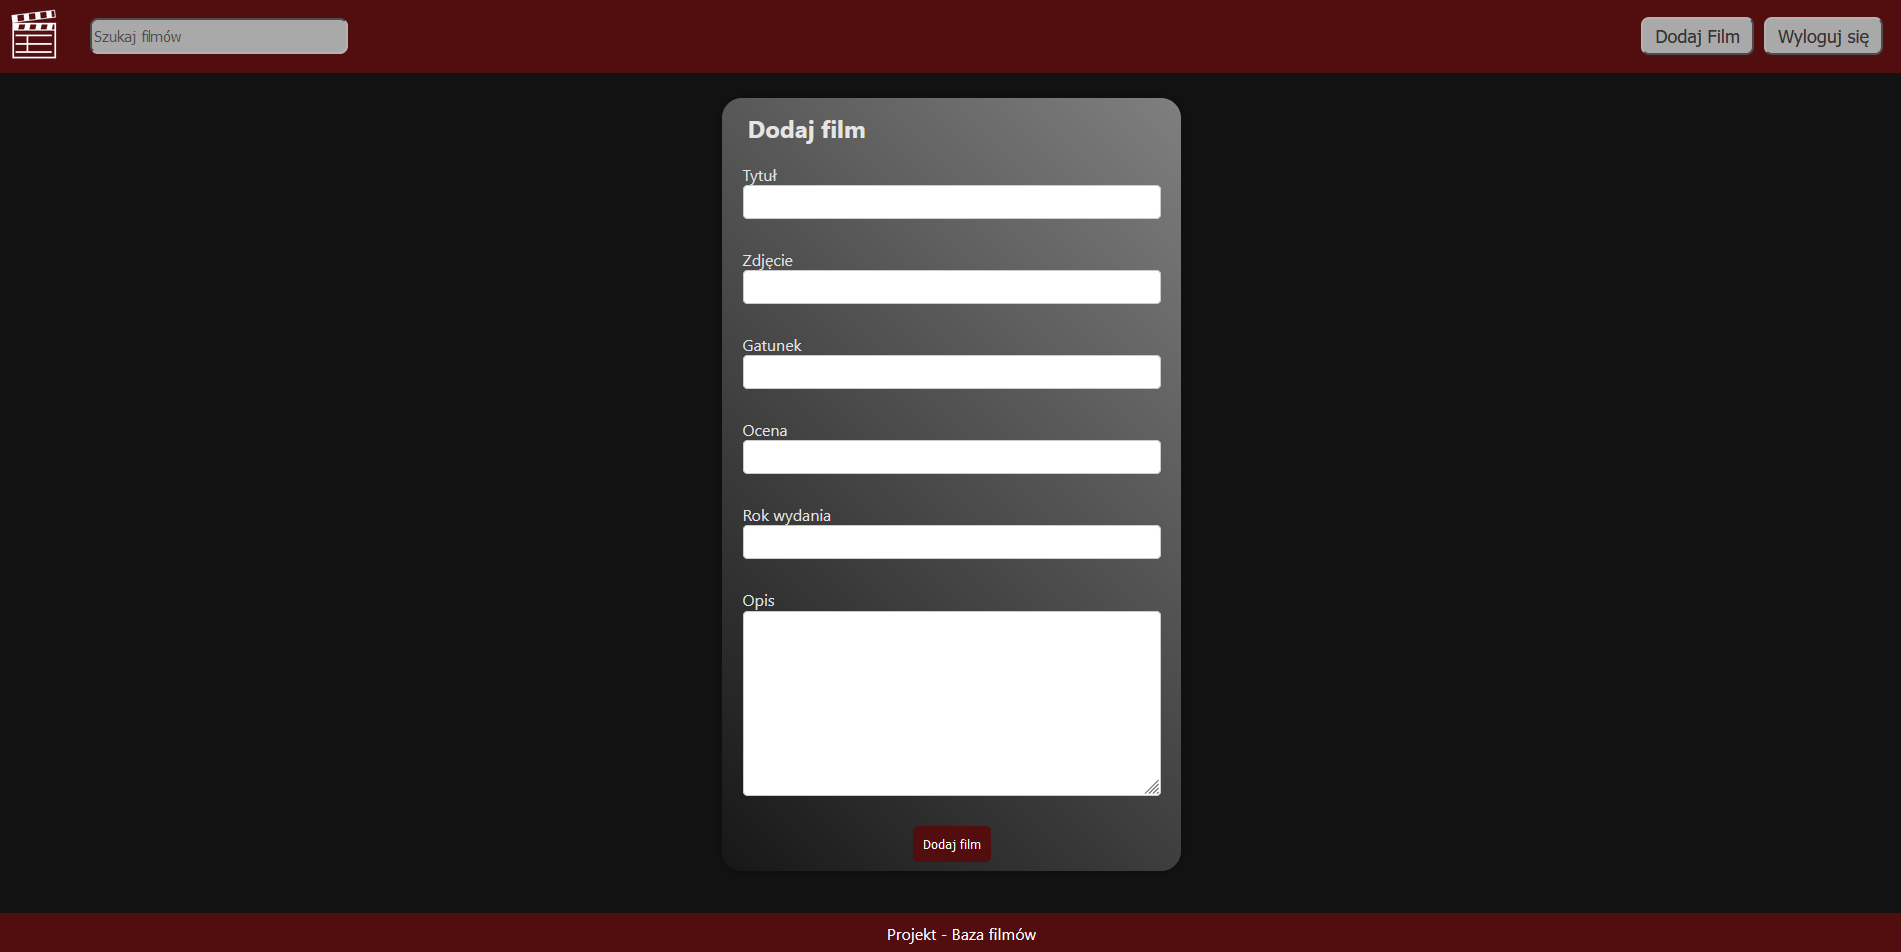
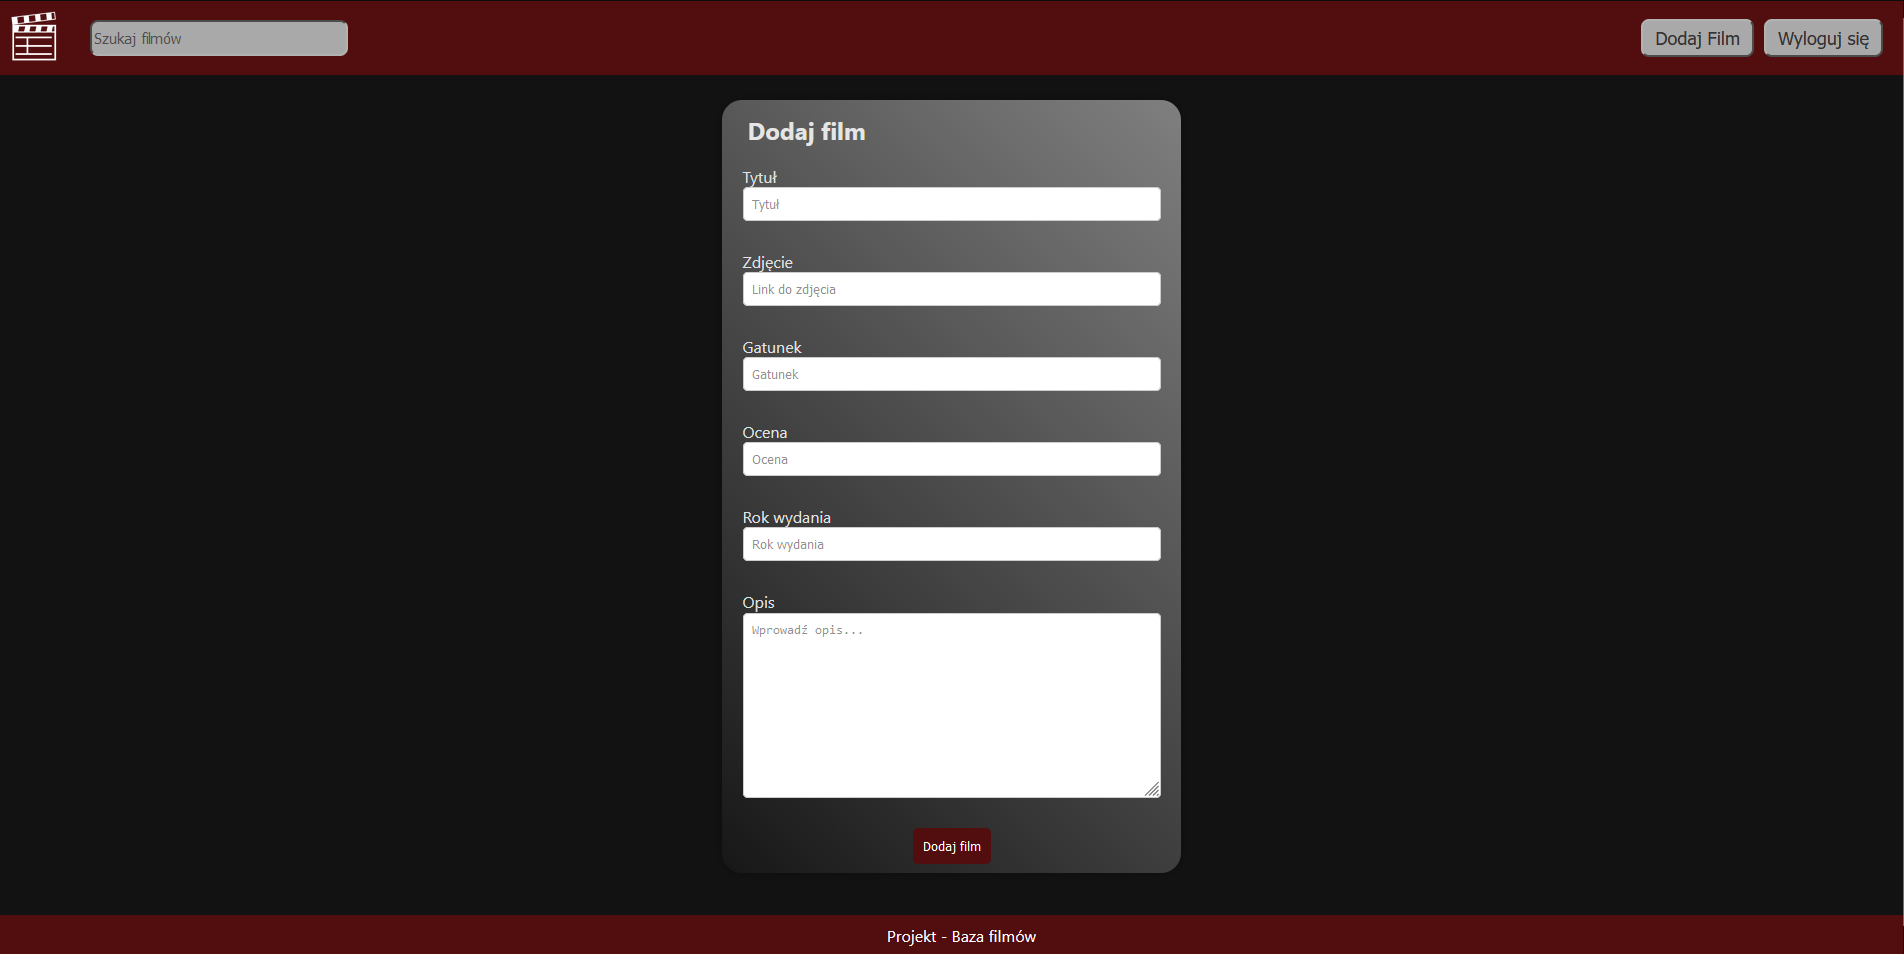
poprawa wyglądu, nowe wersja zdjęcia preview

diff --git a/src/components/AddMovie.jsx b/src/components/AddMovie.jsx
@@ -72,6 +72,7 @@ const AddMovie = () => {
                 type="text"
                 id="title"
                 name="title"
+                placeholder="Tytuł"
                 value={formData.title}
                 onChange={handleInputChange}
               />
@@ -82,6 +83,7 @@ const AddMovie = () => {
                 type="text"
                 id="image"
                 name="image"
+                placeholder="Link do zdjęcia"
                 value={formData.image}
                 onChange={handleInputChange}
               />
@@ -92,6 +94,7 @@ const AddMovie = () => {
                 type="text"
                 id="genre"
                 name="genre"
+                placeholder="Gatunek"
                 value={formData.genre}
                 onChange={handleInputChange}
               />
@@ -102,6 +105,7 @@ const AddMovie = () => {
                 type="text"
                 id="rate"
                 name="rate"
+                placeholder="Ocena"
                 value={formData.rate}
                 onChange={handleInputChange}
               />
@@ -112,6 +116,7 @@ const AddMovie = () => {
                 type="text"
                 id="productionYear"
                 name="productionYear"
+                placeholder="Rok wydania"
                 value={formData.productionYear}
                 onChange={handleInputChange}
               />
@@ -122,6 +127,7 @@ const AddMovie = () => {
                 id="content"
                 name="content"
                 rows="10"
+                placeholder="Wprowadź opis..."
                 value={formData.content}
                 onChange={handleInputChange}
               />
